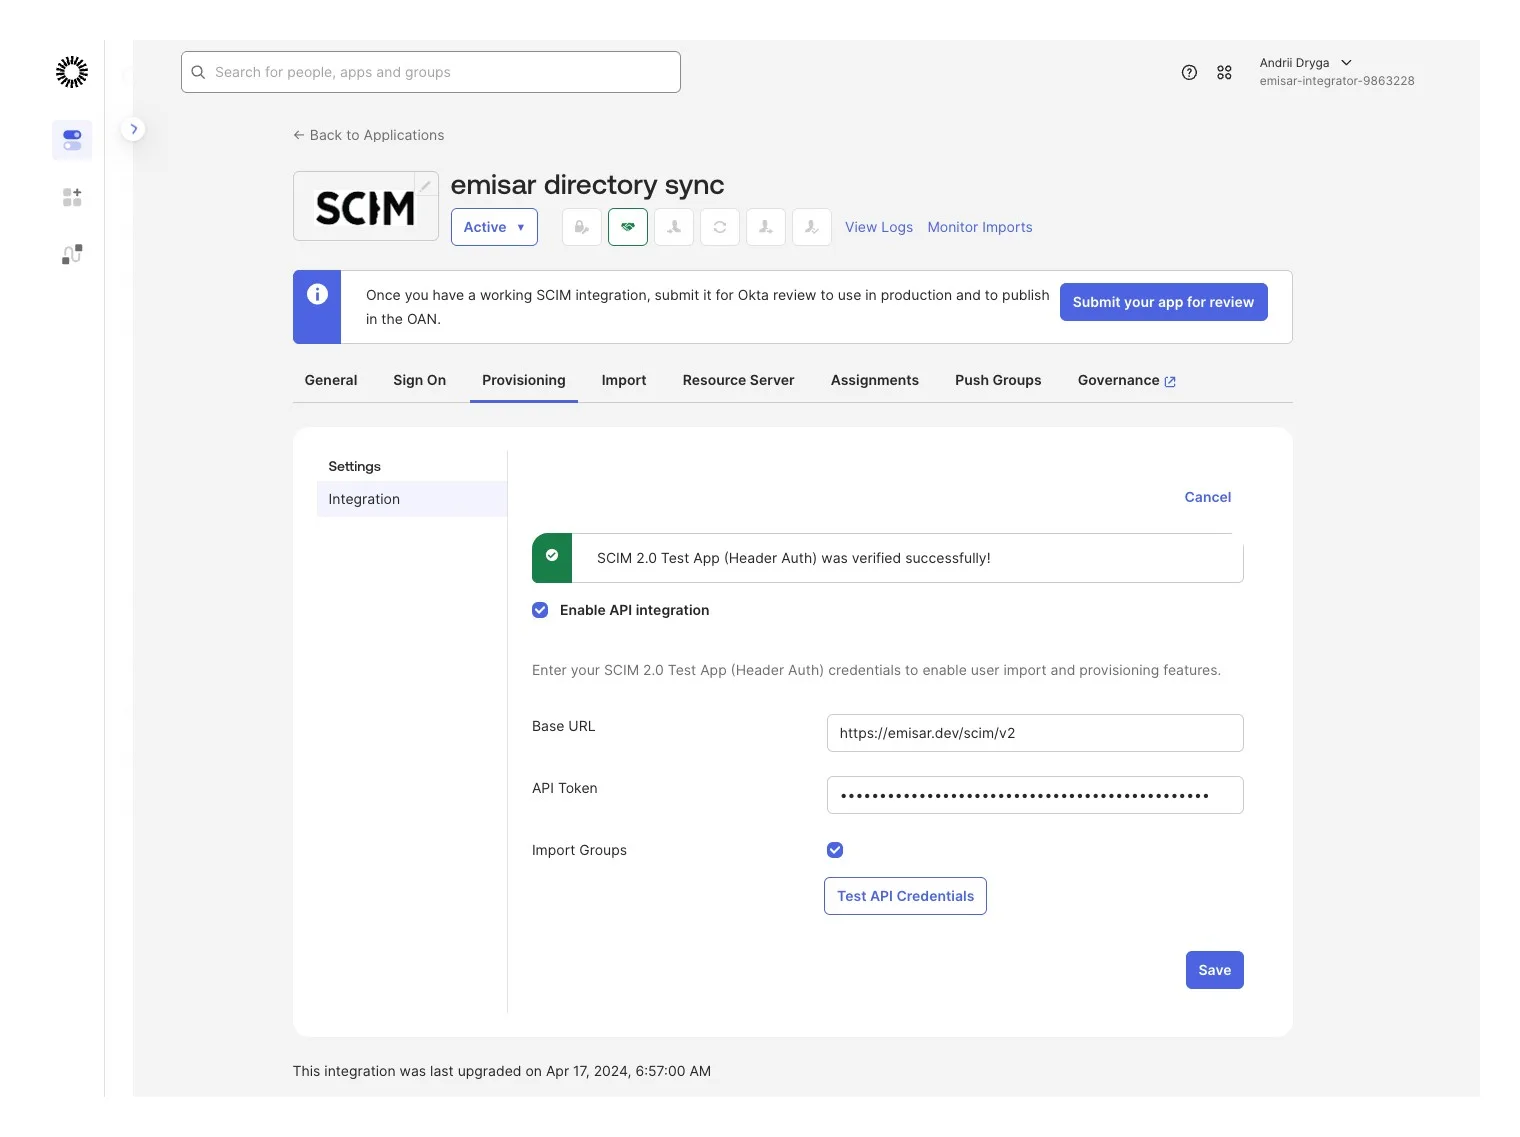
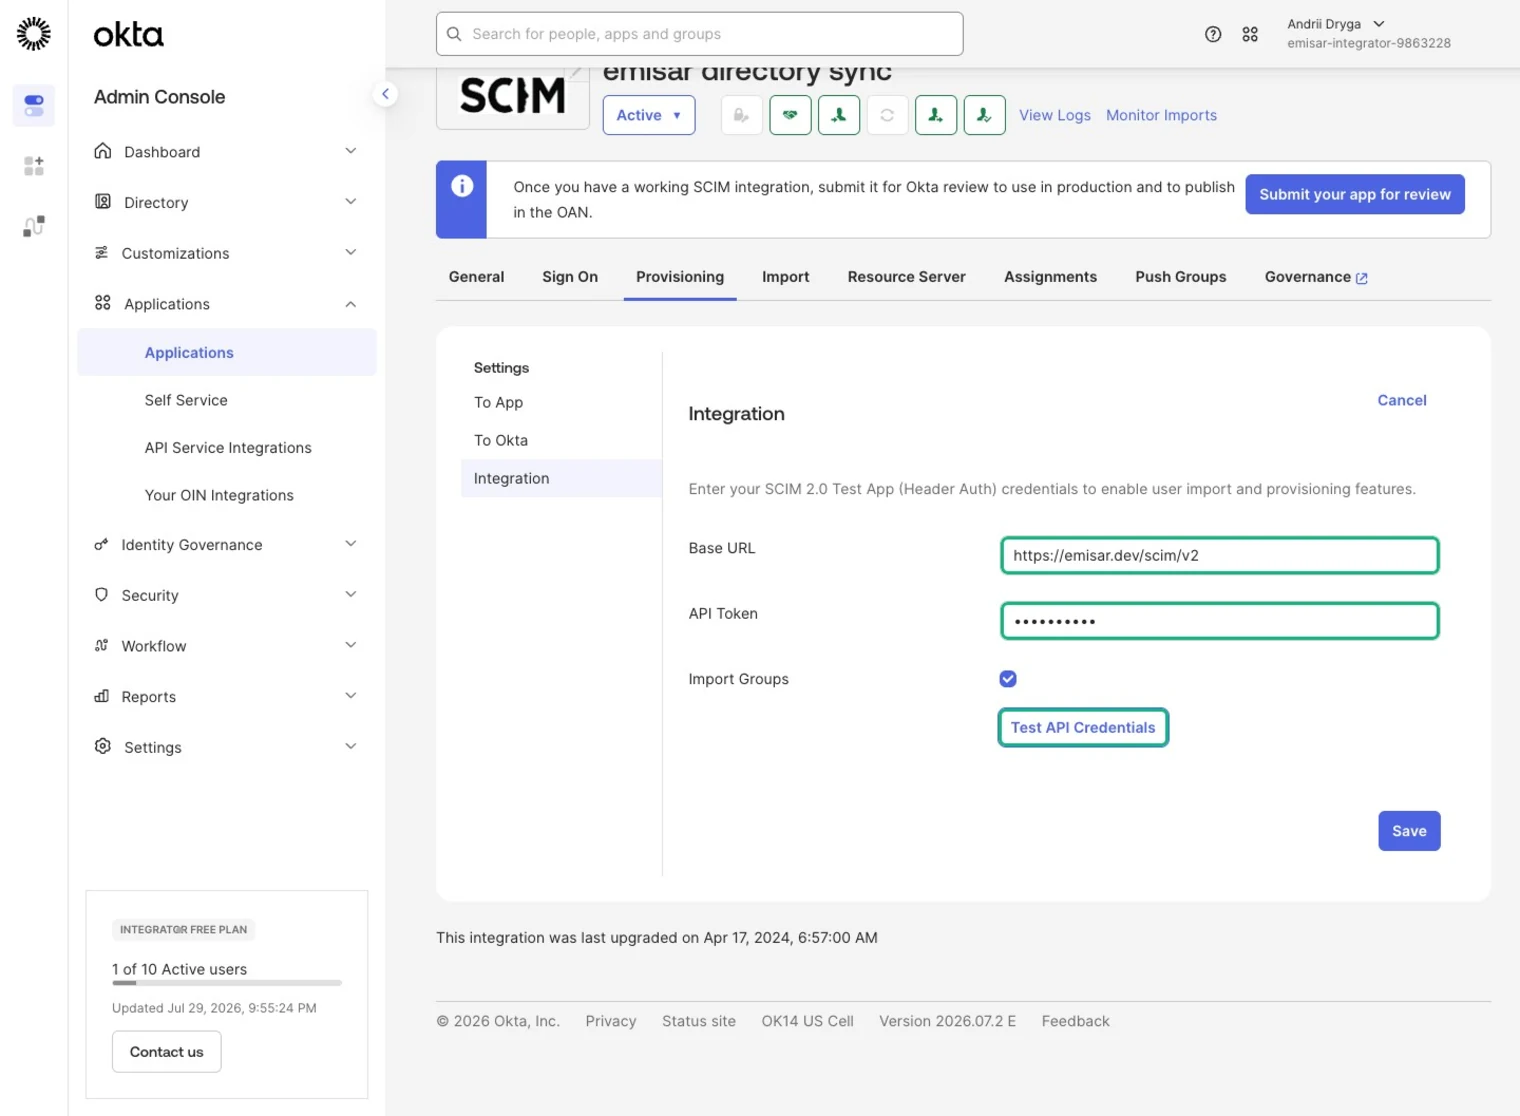
Reach Okta's credentials screen on an already-configured app
okta-scim-verified shipped bare because a configured app has no "Configure
API Integration" button and the flow skipped to the lifecycle half. The
screen is still there, behind Integration → Edit, so the resume path opens
it and rings the three controls its step names.

Three things only the live form could tell us: the visible labels do not
identify these fields, so highlighting goes by name; on a saved
configuration the token field is scim_auth_header_value_new, because the
stored token is write-only and you supply a replacement rather than read
it; and m-verify is an input, not the button id the creation path clicks.

Test API Credentials is ringed but not pressed, and the form is cancelled
rather than saved — pressing it against an endpoint this run cannot reach
would photograph an error.

De-identification was broken here too. It matched the current run's tunnel,
but the saved Base URL came from an earlier capture under a different ngrok
host, so a live tunnel would have shipped. It now rewrites whatever origin
the field holds and keeps the /scim/v2 path.

Coop-Task: 2026-07-29-re-capture-the-two-okta-shots-that-ship-without

diff --git a/tools/cmd/okta-capture/main.go b/tools/cmd/okta-capture/main.go
@@ -21,6 +21,7 @@ import (
 	"encoding/base32"
 	"encoding/binary"
 	"encoding/json"
+	"errors"
 	"flag"
 	"fmt"
 	"io"
@@ -481,6 +482,113 @@ func captureFlow(ctx context.Context, env map[string]string, outDir, only string
 
 // provisioningFlow captures the half that actually wires Okta to emisar: the
 // API-integration form, the credential test, and the To App lifecycle settings.
+// highlightSelector rings a control named outright, for a form whose visible
+// labels do not identify its fields.
+func highlightSelector(ctx context.Context, selector string) error {
+	script := fmt.Sprintf(`(() => {
+  const el = document.querySelector(%q);
+  if (!el || !(el.offsetWidth > 0 || el.offsetHeight > 0)) return false;
+  el.style.boxShadow = 'inset 0 0 0 3px #10b981';
+  el.style.borderRadius = '8px';
+  el.scrollIntoView({block: 'center'});
+  return true;
+})()`, selector)
+	var marked bool
+	if err := chromedp.Run(ctx, chromedp.Evaluate(script, &marked)); err != nil {
+		return err
+	}
+	if !marked {
+		return fmt.Errorf("nothing matching %s to highlight", selector)
+	}
+	fmt.Printf("  highlighted %s\n", selector)
+	return chromedp.Run(ctx, chromedp.Sleep(600*time.Millisecond))
+}
+
+// captureConfiguredCredentials opens the saved SCIM connection for editing and
+// shoots it. Nothing is saved and Test API Credentials is NOT pressed — the point
+// is to show the operator which three controls matter, and pressing it against an
+// endpoint this run cannot reach would photograph an error instead.
+func captureConfiguredCredentials(
+	ctx context.Context,
+	env map[string]string,
+	shoot func(string) error,
+	step func(string) error,
+	settle func(int) error,
+) error {
+	if err := step("Integration"); err != nil {
+		return err
+	}
+	if err := settle(4); err != nil {
+		return err
+	}
+	if err := step("Edit"); err != nil {
+		return err
+	}
+	if err := settle(3); err != nil {
+		return err
+	}
+
+	// By FIELD NAME, not by label. The creation path fills these the same way,
+	// with the comment that the labels are decorative — and matching a label is
+	// what failed here.
+	// Named outright, and NOT the same names the creation form uses: on a saved
+	// configuration the token field is `scim_auth_header_value_new`, because the
+	// stored token is write-only and you supply a replacement rather than read it.
+	for _, selector := range []string{
+		`[name="scim_base_url"]`,
+		`[name="scim_auth_header_value_new"]`,
+		`[name="m-verify"]`,
+	} {
+		if err := highlightSelector(ctx, selector); err != nil {
+			return err
+		}
+	}
+
+	// The saved Base URL is the capture rig's tunnel. Swap it for the product host
+	// before the shot — a customer's reads emisar.dev, and ours must not ship.
+	docsHost := env["EMISAR_DOCS_HOST"]
+	if docsHost == "" {
+		docsHost = "https://emisar.dev"
+	}
+
+	// Rewrite whatever ORIGIN the field holds, rather than the tunnel this run
+	// happens to have: the saved value was written by an earlier capture, under a
+	// different ngrok host, so matching the current one replaced nothing and the
+	// old tunnel shipped in the shot. The path is kept — /scim/v2 is the real
+	// shape a reader needs.
+	rewrite := fmt.Sprintf(`(() => {
+  const field = document.querySelector('[name="scim_base_url"]');
+  if (!field) return false;
+  let path = '/scim/v2';
+  try { path = new URL(field.value).pathname || path } catch (_) {}
+  const setter = Object.getOwnPropertyDescriptor(window.HTMLInputElement.prototype, 'value').set;
+  setter.call(field, %q + path);
+  field.dispatchEvent(new Event('input', {bubbles: true}));
+  return true;
+})()`, strings.TrimSuffix(docsHost, "/"))
+
+	var rewritten bool
+
+	if err := chromedp.Run(ctx, chromedp.Evaluate(rewrite, &rewritten)); err != nil {
+		return err
+	}
+
+	if !rewritten {
+		return errors.New("could not de-identify the SCIM base URL before the shot")
+	}
+
+	if err := shoot("10-test-api-credentials"); err != nil {
+		return err
+	}
+
+	// Leave the saved configuration exactly as it was.
+	if _, err := clickText(ctx, "Cancel"); err != nil {
+		return err
+	}
+
+	return settle(3)
+}
+
 func provisioningFlow(
 	ctx context.Context,
 	env map[string]string,
@@ -518,7 +626,16 @@ func provisioningFlow(
 		return err
 	}
 	if !configuring {
-		fmt.Println("  already configured — skipping to To App")
+		// The credential screen still EXISTS on a configured app, behind
+		// Integration → Edit. Skipping straight to the lifecycle half is why
+		// okta-scim-verified shipped with no outlines on the three controls its
+		// step names.
+		fmt.Println("  already configured — opening Integration to shoot the credentials")
+
+		if err := captureConfiguredCredentials(ctx, env, shoot, step, settle); err != nil {
+			return err
+		}
+
 		return lifecycleFlow(ctx, instance, shoot, step, settle)
 	}
 	if err := settle(5); err != nil {
